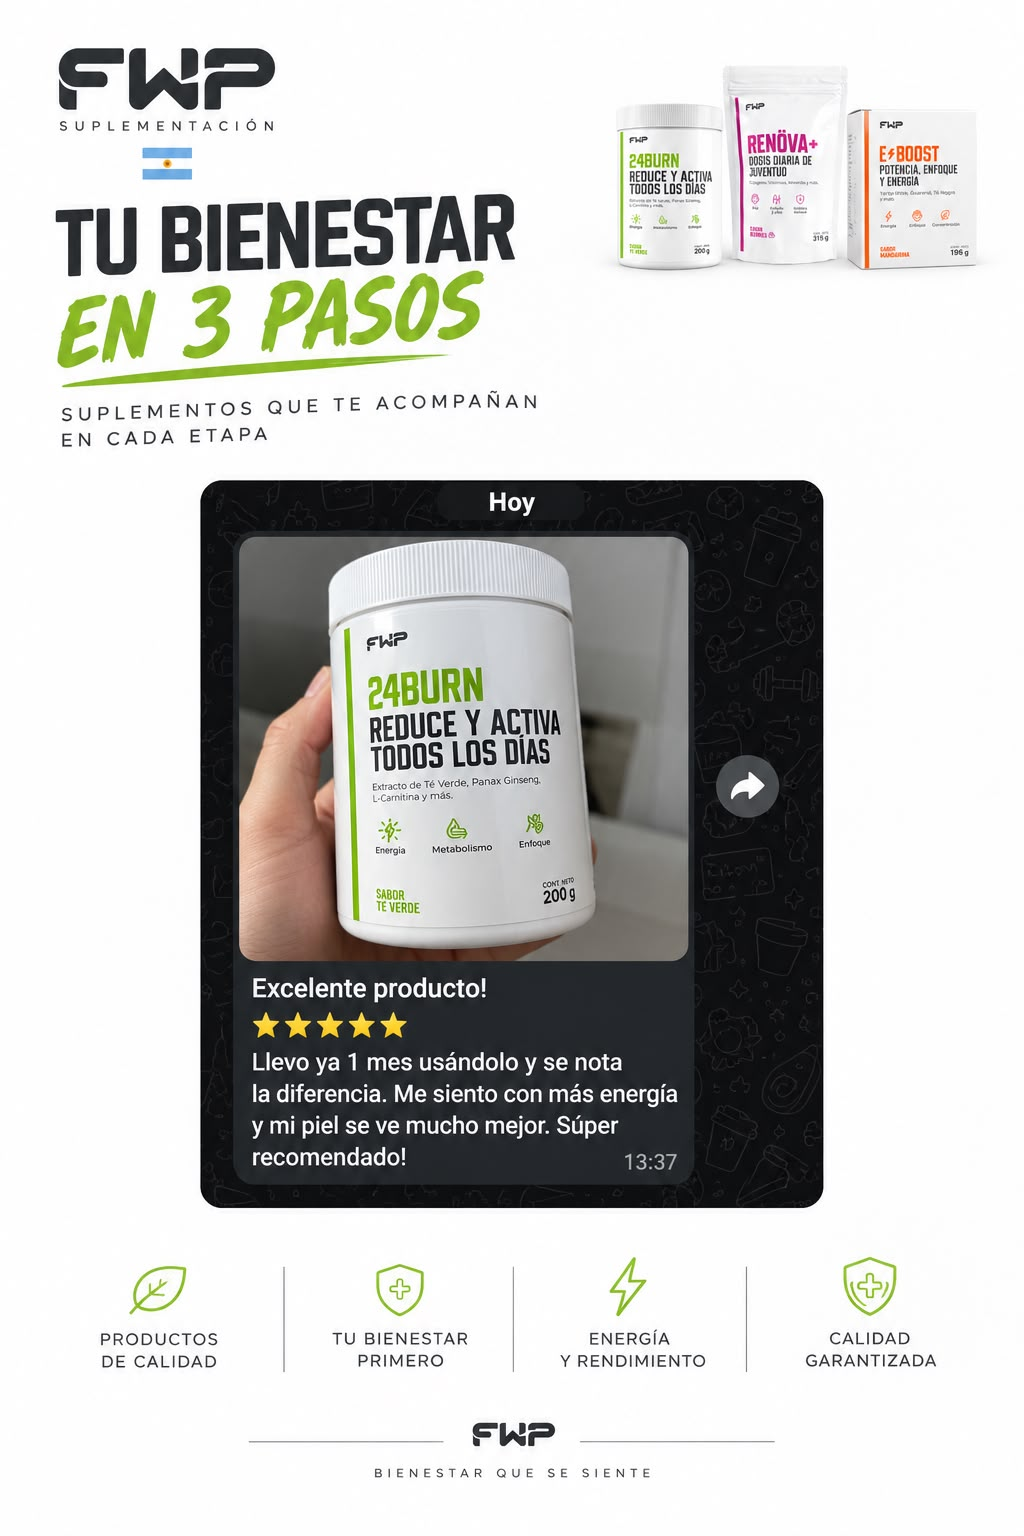
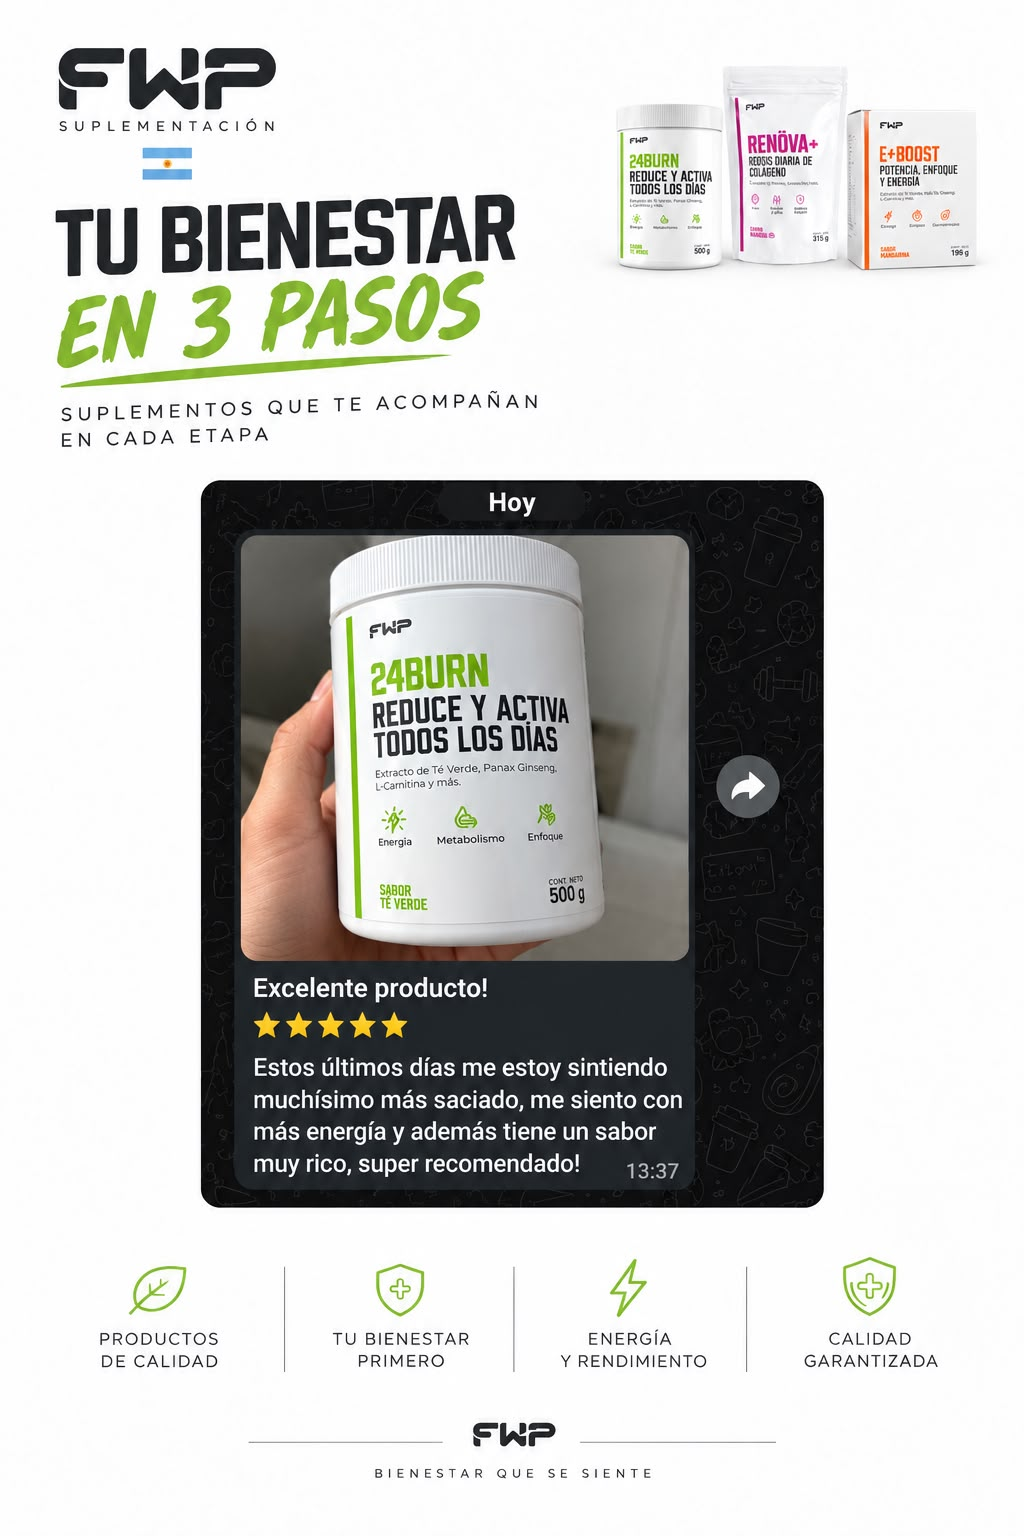
Actualizar imagen de reseña en la landing de 24BURN (#2)
Claude-Session: https://claude.ai/code/session_01ENVnpguZ1jU7rZSE29fELb

diff --git a/productos/24burn.html b/productos/24burn.html
@@ -233,7 +233,7 @@
     <p class="sec-sub">Reseña real de un cliente.</p>
   </div>
   <div class="review-card">
-    <img src="../assets/resenas/24burn-resena.jpg" alt="Reseña real de un cliente de 24BURN: Excelente producto, 5 estrellas, llevo ya 1 mes usándolo y se nota la diferencia.">
+    <img src="../assets/resenas/24burn-resena.jpg?v=2" alt="Reseña real de un cliente de 24BURN: Excelente producto, 5 estrellas. Estos últimos días me estoy sintiendo muchísimo más saciado, me siento con más energía y además tiene un sabor muy rico, super recomendado.">
   </div>
 </div>
 
